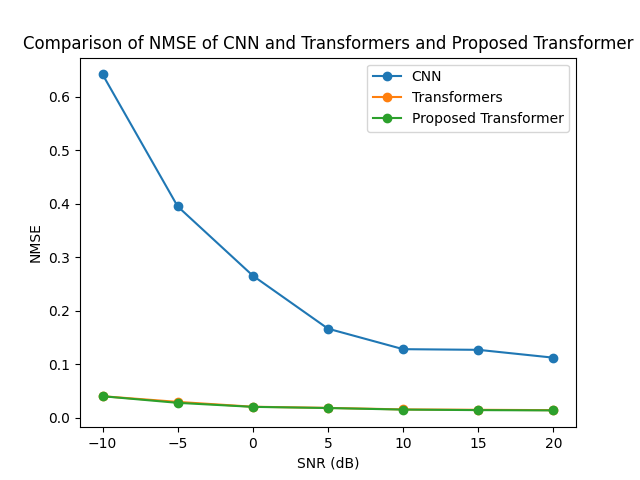
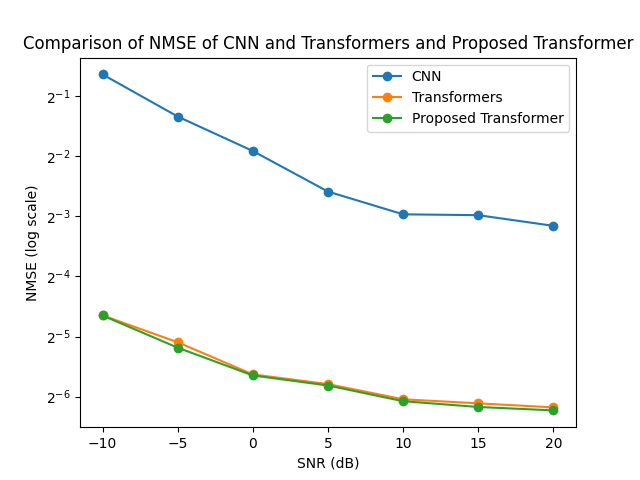
message

diff --git a/SPR-CNN/result-modality-transformer.py b/SPR-CNN/result-modality-transformer.py
@@ -1,4 +1,5 @@
 import matplotlib.pyplot as plt
+import math
 
 # data
 x = [-10, -5, 0, 5, 10, 15, 20]
@@ -16,6 +17,9 @@ y2 = [0.03987005725502968, 0.029254980385303497, 0.02019014209508896, 0.01805665
 # modality-aware transformers
 y3 = [0.039829012006521225, 0.02747759222984314, 0.019949764013290405, 0.017768146470189095, 0.014825291931629181, 0.013869925402104855, 0.01333386730402708]
 
+# set y-axis to log scale
+plt.yscale('log', base=2)
+
 # draw
 plt.plot(x, y1, marker='o', label='CNN')
 plt.plot(x, y2, marker='o', label='Transformers')
@@ -24,7 +28,7 @@ plt.plot(x, y3, marker='o', label='Proposed Transformer')
 # add title and axis labels
 plt.title('Comparison of NMSE of CNN and Transformers and Proposed Transformer')
 plt.xlabel('SNR (dB)')
-plt.ylabel('NMSE')
+plt.ylabel('NMSE (log scale)')
 
 # add legend
 plt.legend()
@@ -52,6 +56,9 @@ y2 = [15.490602115597438, 15.58706522935487, 15.66893307641061, 15.6881340164924
 # modality-aware transformers
 y3 = [15.49097643884792, 15.603153955212745, 15.671097689190924, 15.690728563181299, 15.717167092546497, 15.725739653022522, 15.730547503306035]
 
+# set y-axis to log scale
+plt.yscale('log', base=10)
+
 # draw
 plt.plot(x, y1, marker='o', label='CNN')
 plt.plot(x, y2, marker='o', label='Transformers')
@@ -60,7 +67,7 @@ plt.plot(x, y3, marker='o', label='Proposed Transformer')
 # add title and axis labels
 plt.title('Comparison of sum rate of CNN and Transformers and Proposed Transformer')
 plt.xlabel('SNR (dB)')
-plt.ylabel('sum rate(bandwith = 10)')
+plt.ylabel('sum rate(bandwith = 10) (log scale)')
 
 # add legend
 plt.legend()
